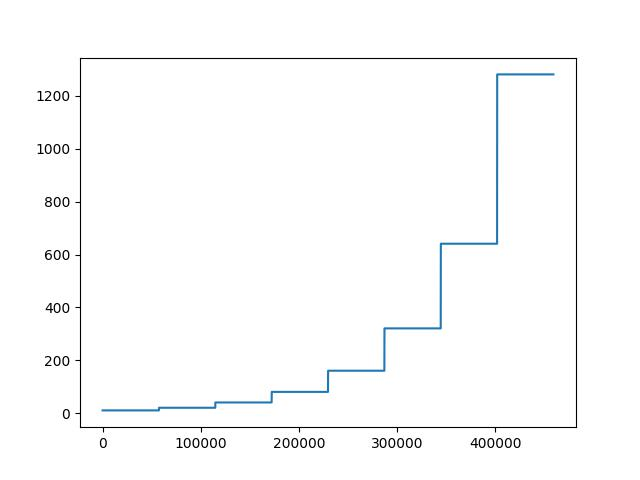
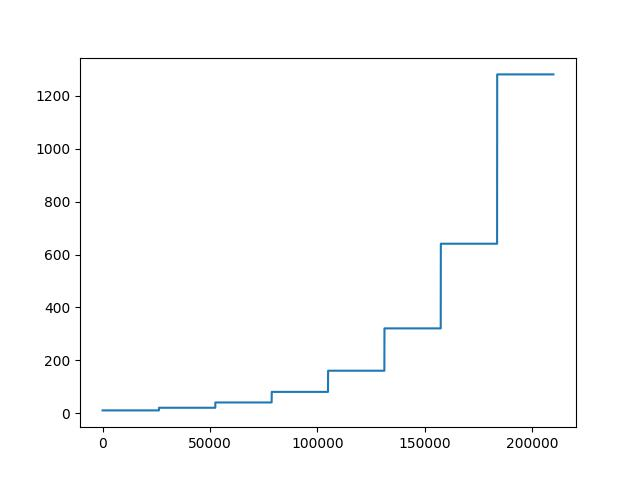
lct

Changed region(s): [[0.5625, 0.9062, 0.875, 0.9375], [0.4062, 0.9062, 0.5312, 0.9375], [0.2812, 0.9062, 0.375, 0.9375]]

diff --git a/train_cm_latent.py b/train_cm_latent.py
@@ -360,7 +360,7 @@ def main(args):
                 dist.all_reduce(avg_loss, op=dist.ReduceOp.SUM)
                 avg_loss = avg_loss.item() / world_size
                 logger.info(
-                    f"(step={train_steps:07d}) Train Loss: {avg_loss:.4f} CM Loss: {avg_cm_loss:.4f} Diff Loss: {avg_diff_loss:.4f}, "
+                    f"(step={train_steps:07d}, nfe={num_scales}) Train Loss: {avg_loss:.4f} CM Loss: {avg_cm_loss:.4f} Diff Loss: {avg_diff_loss:.4f}, "
                     f"Train Steps/Sec: {steps_per_sec:.2f}, "
                     f"GPU Mem before forward: {before_forward/10**9:.2f}Gb, "
                     f"GPU Mem after forward: {after_forward/10**9:.2f}Gb, "

diff --git a/models/script_util.py b/models/script_util.py
@@ -216,7 +216,7 @@ def create_ema_and_scales_fn(
     # Discretization curriculum improvement
     def improve_scale_fn(step):
         temp = np.floor(total_steps/(np.log2(np.floor(end_scales/start_scales))+1))
-        scales = min(start_scales*2**np.floor(step/temp), end_scales) + 1
+        scales = min(start_scales*2**np.floor(step/temp), end_scales)
         if target_ema_mode == "adaptive":
             c = -np.log(start_ema) * start_scales
             target_ema = np.exp(-c / scales)

diff --git a/test_cm_latent_ddp.py b/test_cm_latent_ddp.py
@@ -158,6 +158,7 @@ def main(args):
         for i in pbar:
             with torch.no_grad():
                 fake_image = run_sampling(args.batch_size, generator)
+                fake_image = torch.cat(fake_image)
                 fake_image = (
                     (torch.clamp(to_range_0_1(fake_image), 0, 1) * 255.0)
                     .permute(0, 2, 3, 1)

diff --git a/test.py b/test.py
@@ -5,7 +5,7 @@ import math
 import torch
 
 def test_scale():
-    total_steps = 459000
+    total_steps = 210000
     start_scales = 10
     end_scales = 1280
 
@@ -20,6 +20,8 @@ def test_scale():
         scales.append(scale)
     plt.plot(scales)
     plt.savefig("scales.jpg")
+    
+test_scale()
     
 
 def test_erf_dist():
